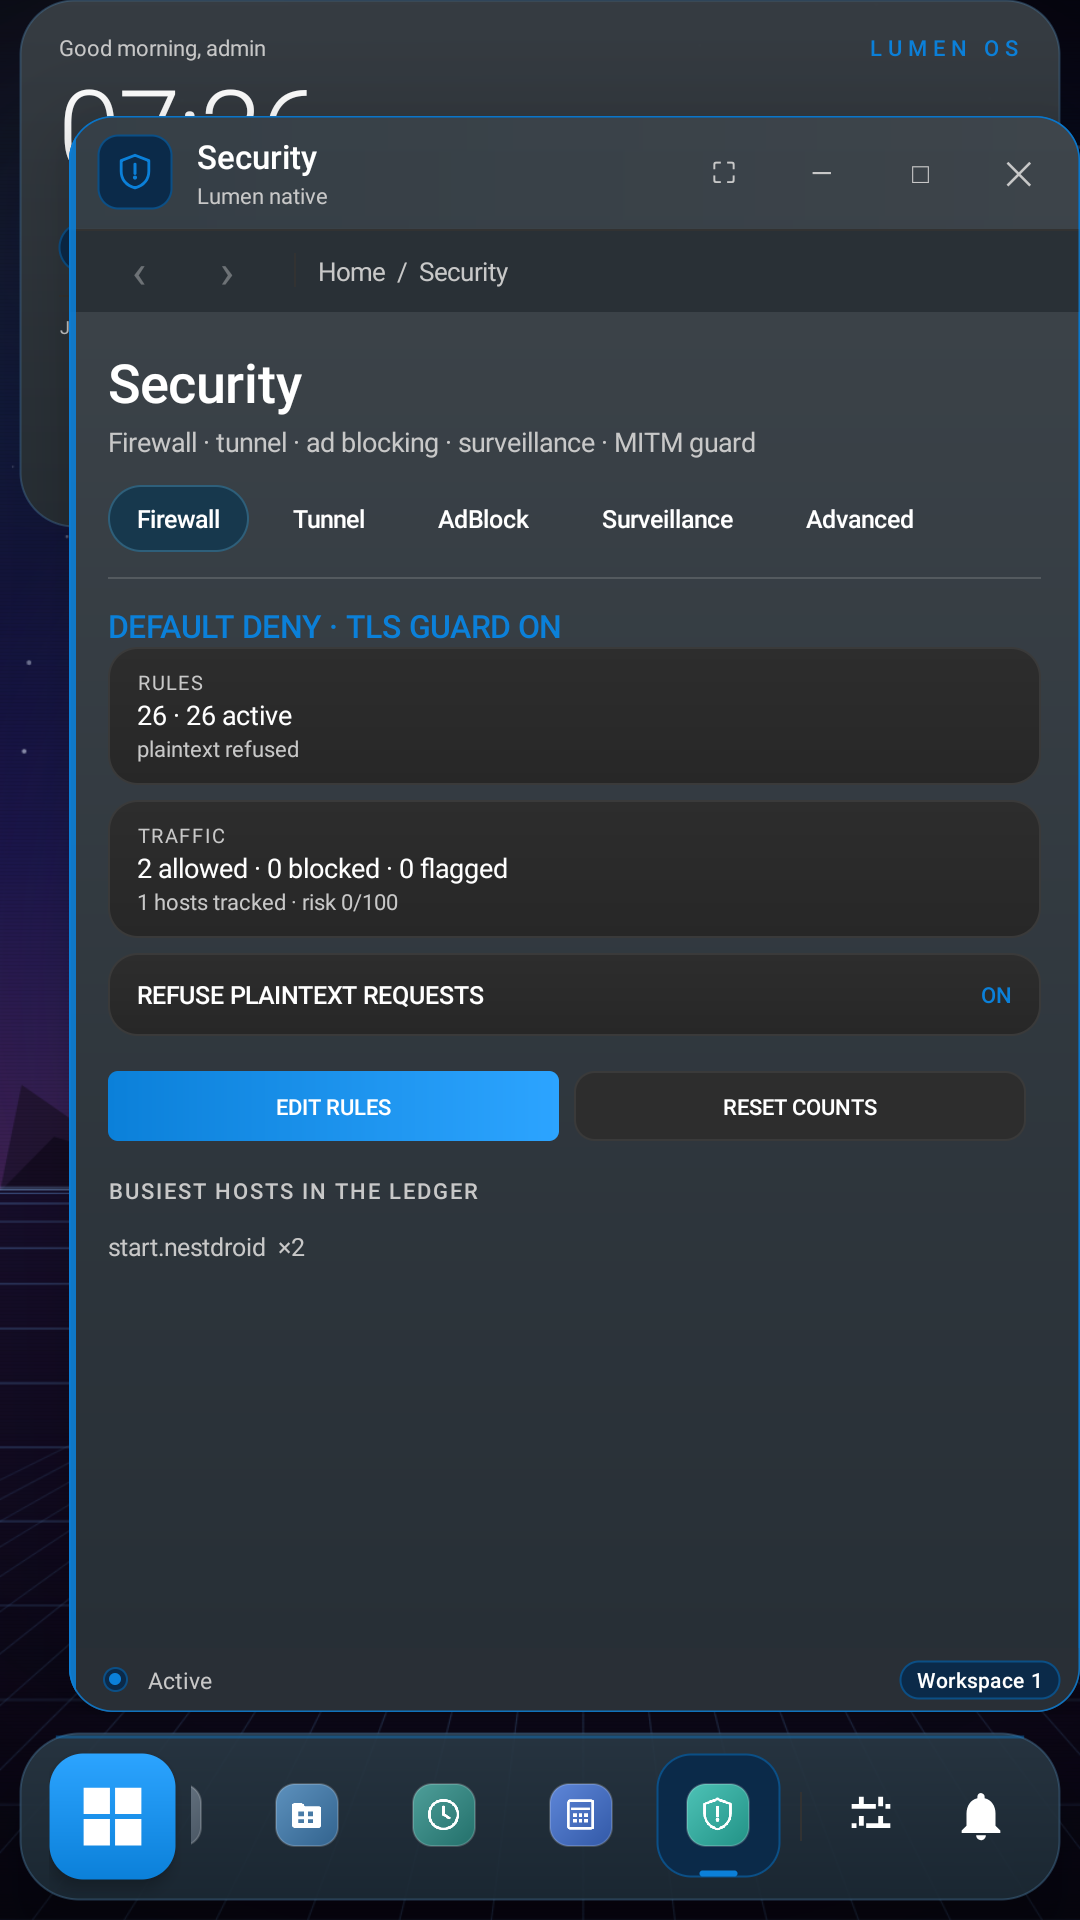
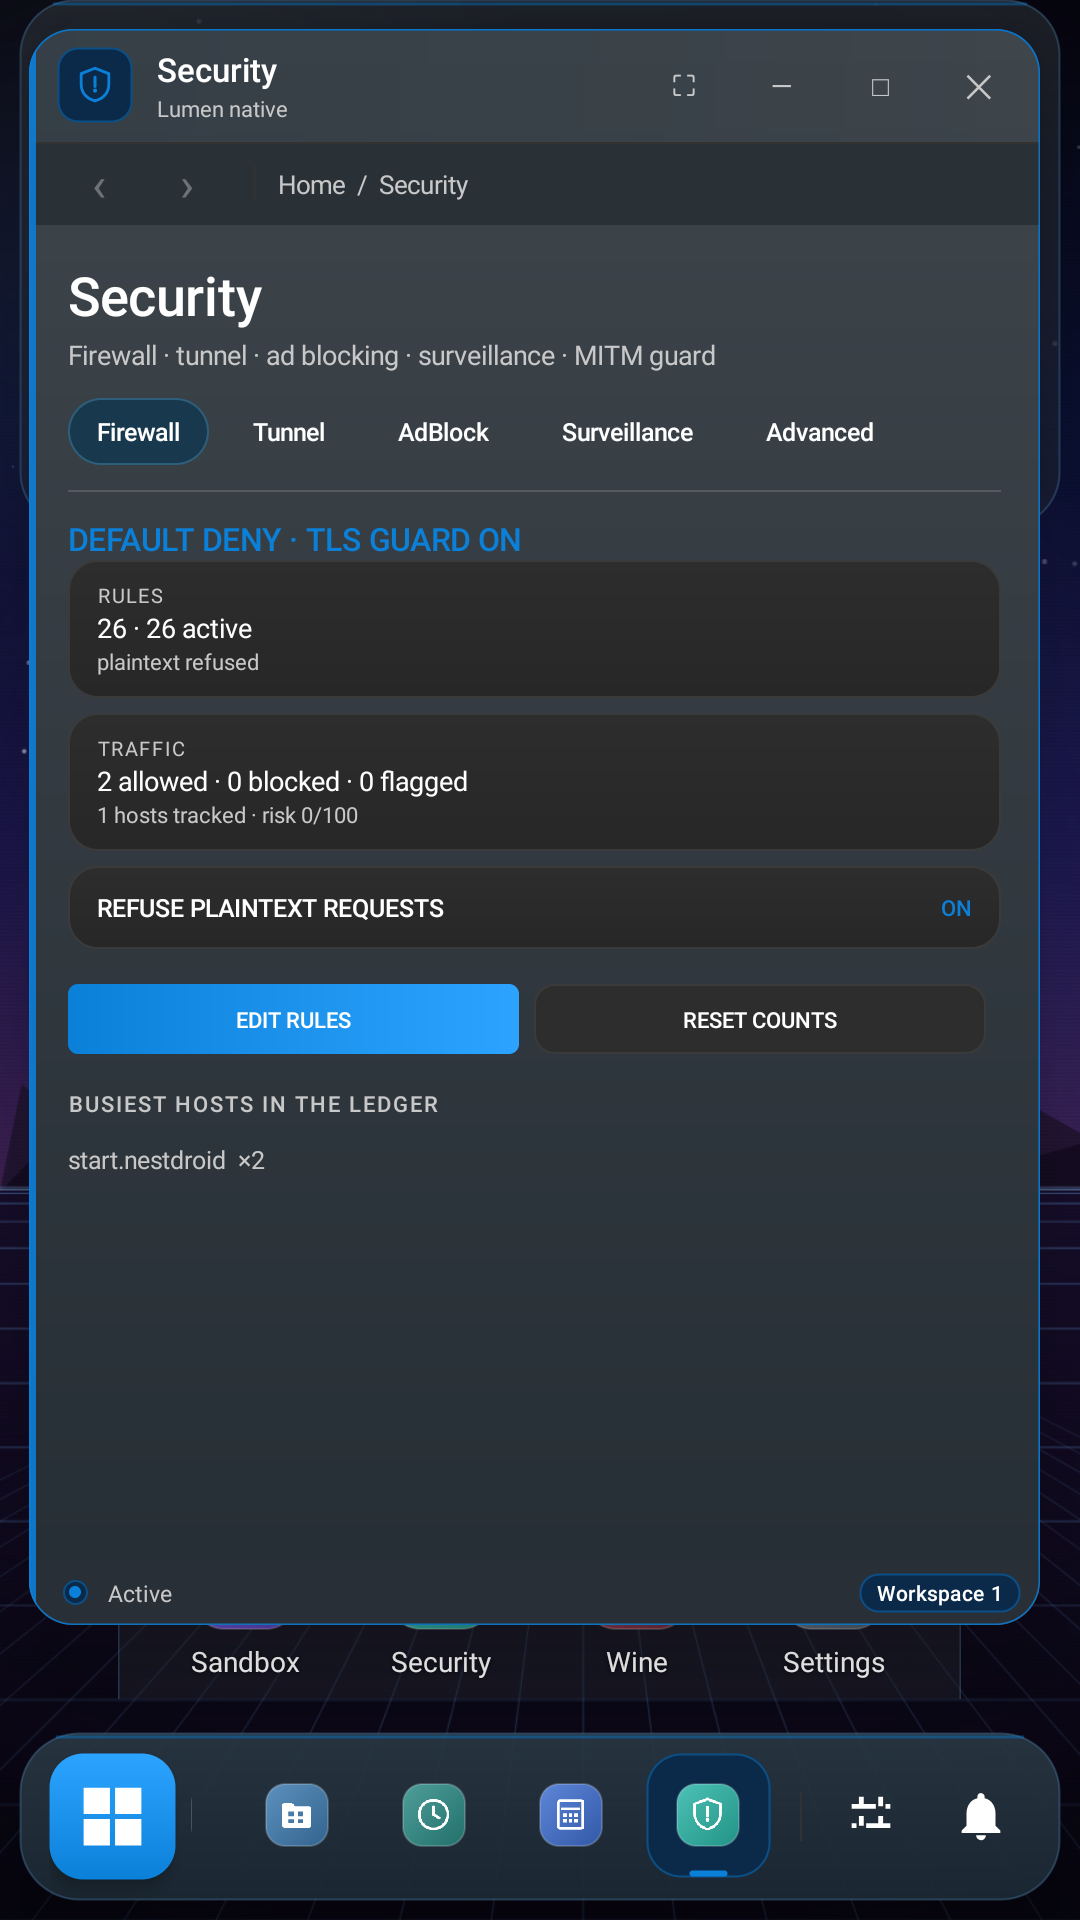
Refresh screenshots for the 1.9.3 widget glass
The published gallery was still byte-for-byte the 1.9.1 set, so it showed the
opaque skylight panel that 1.9.3 replaced. Re-captured all 24 shots on the
1.9.3 build and say so in the README.

diff --git a/README.md b/README.md
@@ -27,7 +27,9 @@ or mapping files are published here. Every download is a finished, signed APK.
 
 ## Screenshots
 
-All screenshots are from the 1.9.1 release build.
+All screenshots are from the current 1.9.3 build, whose skylight widget is now the same
+accent-tinted glass as the launch deck and the dock: the wallpaper reads through it, and it
+carries the live accent bead, rim and telemetry pills.
 
 ### Desktop and shell
 
@@ -66,7 +68,7 @@ together:
 
 ### Built-in apps
 
-Windows use the 1.9.1 caption bar: app mark, name and runtime, then full screen, minimize,
+Windows use the 1.9.3 caption bar: app mark, name and runtime, then full screen, minimize,
 maximize and close, with the workspace pill on the status strip.
 
 | | |
